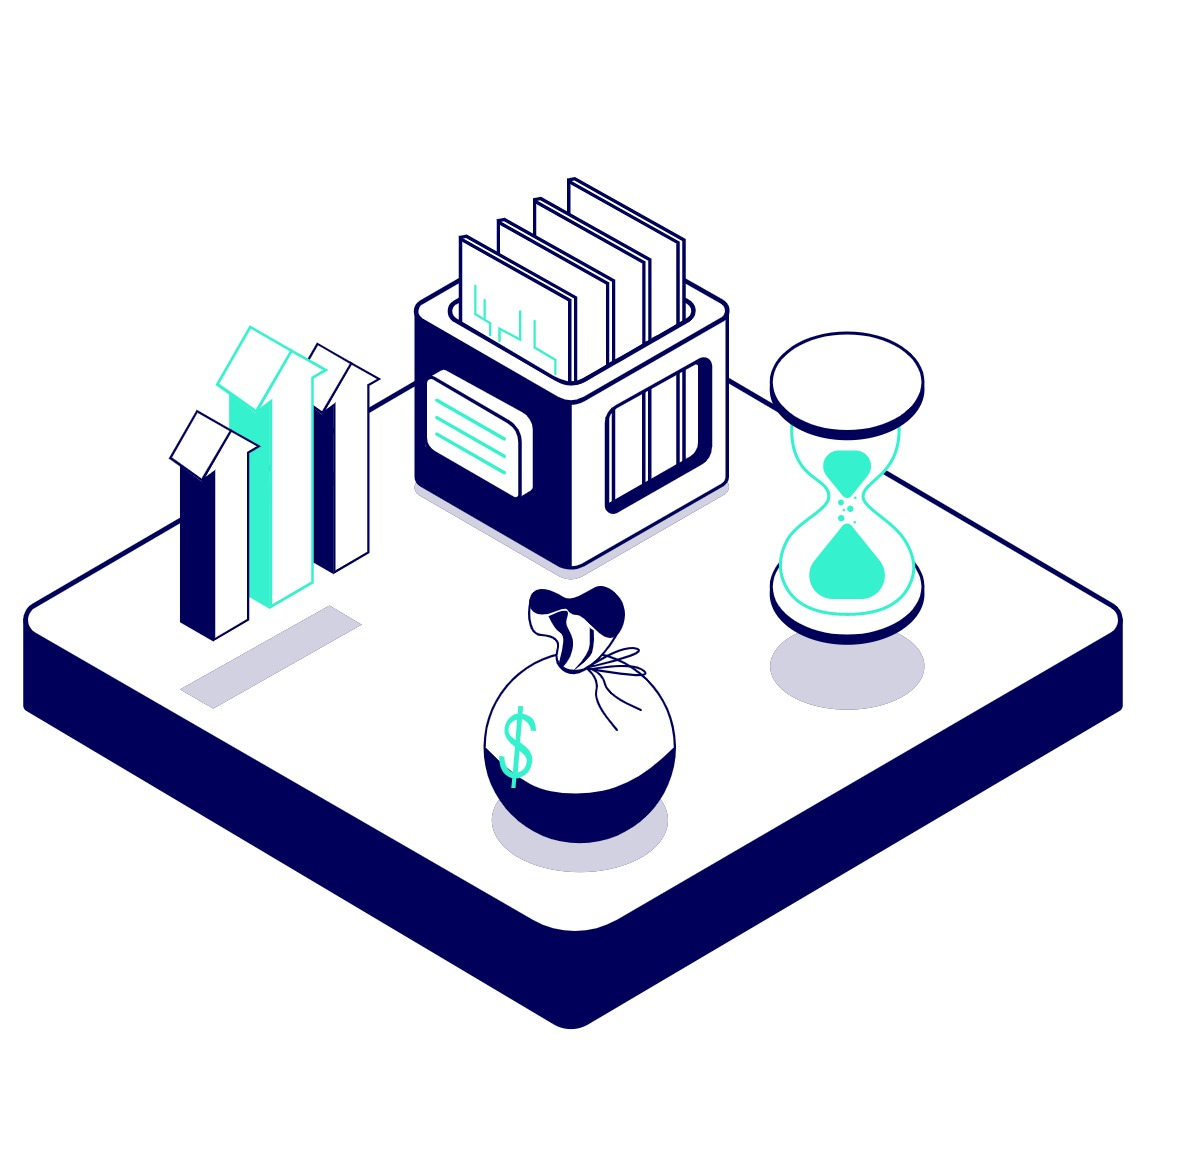
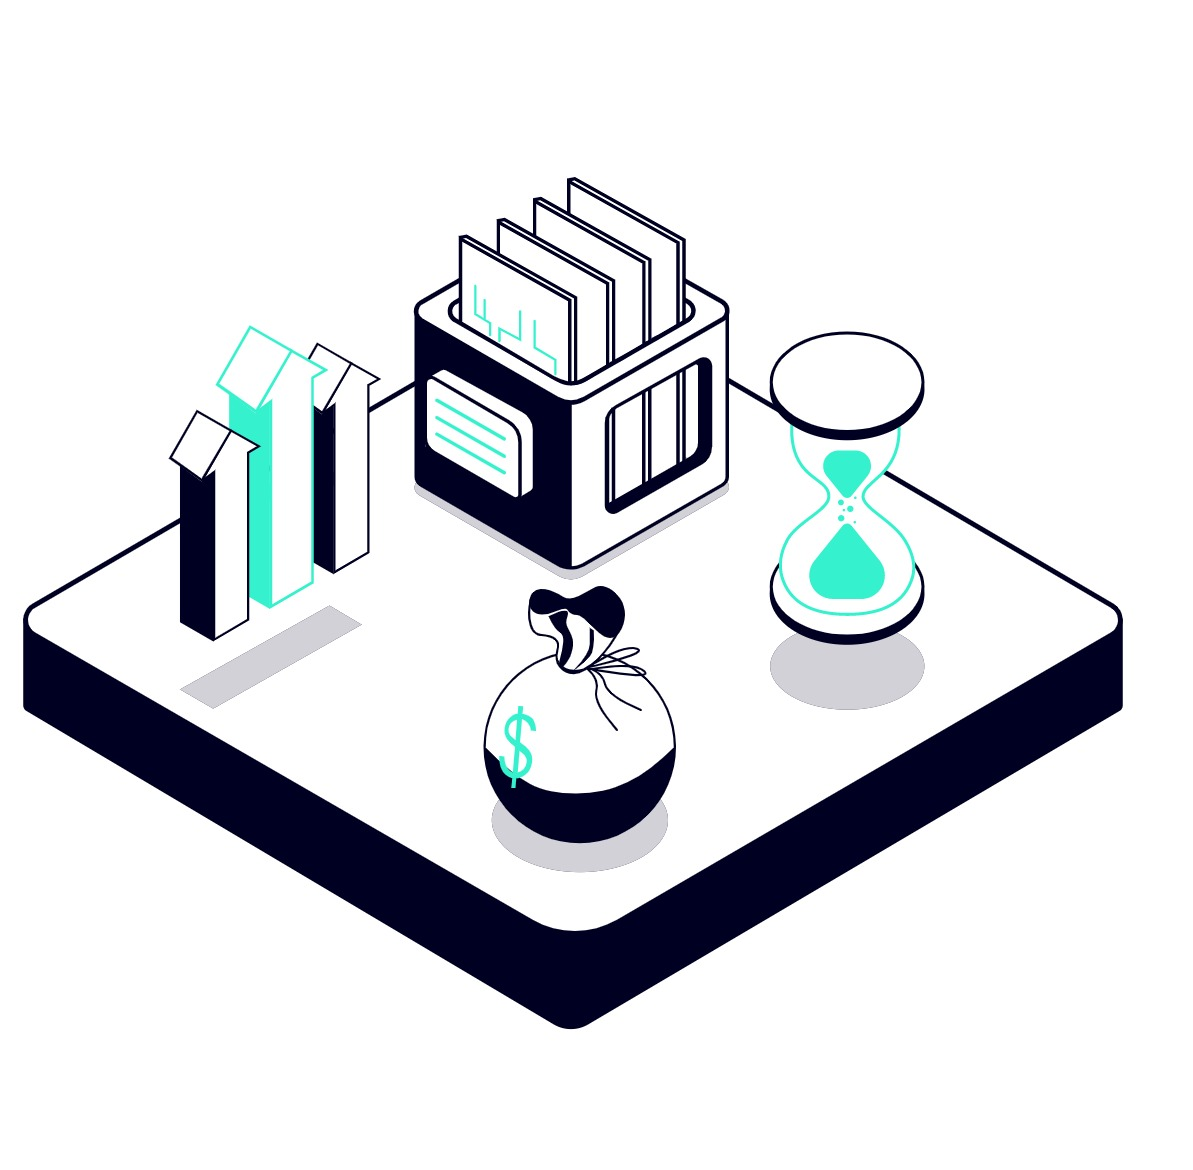
go

diff --git a/index.html b/index.html
@@ -222,7 +222,7 @@
 						</div>
 						<div class="col-lg-6">
 							<div class="banner-img-v8 wow zoomIn" data-wow-duration="1000ms" data-wow-delay="0ms">
-								<img src="assets/img/reporte.png" alt="">
+								<img src="assets/img/reporte.jpg" alt="">
 							</div><!--banner-img-v8 end-->
 						</div>
 					</div>
